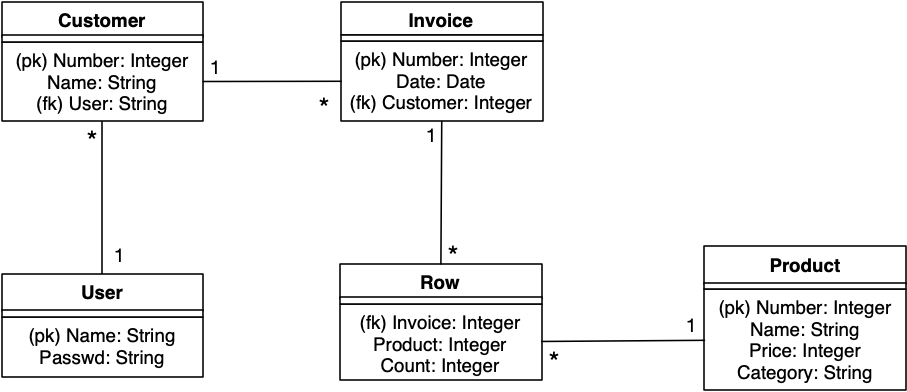
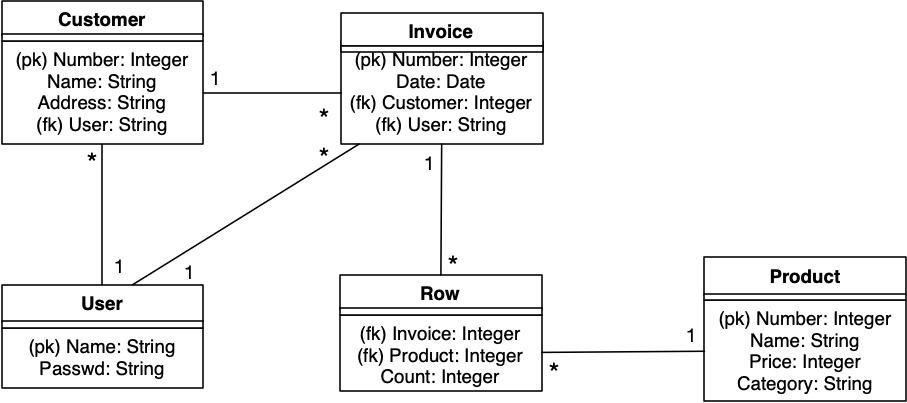
Documentation

diff --git a/README.md b/README.md
@@ -2,6 +2,12 @@
 
 <https://tsoha-laskutus.herokuapp.com/>
 
-Yksinkertainen laskutussovellus kappaletavarakauppaan. Sovelluksessa on tuoterekisteri ja asiakasrekisteri. Lasku on yhdelle asiakkalle, mutta siinä voi olla useampi rivi. Raporteissa voi hyödyntää asiakasryhmiä ja tuoteryhmiä. Myyjän nimi tallentuu laskulle suoraan käyttäjäkannasta. Kentät ovat vielä minimissä, niitä saatetaan tarvita lisää.
+Yksinkertainen laskutussovellus kappaletavarakauppaan. Sovelluksessa on tuoterekisteri, asiakasrekisteri ja tietysti laskurekisteri. Lasku on aina yhdelle asiakkalle, mutta siinä voi olla useampi rivi. Rivit ovat omassa taulussaan.
+
+Tuoterekisterissä on tuoteryhmä-kenttä yhteenvetoraportointia varten.
+
+Jokaisella käyttäjällä on omat asiakkaat eivätkä käyttäjät näe toistensa asiakkaita.
+
+Käyttäjät voivat katsoa, lisätä, poistaa ja muokata tuotteita, omia laskujaan ja omia asiakkaitaan.
 
 ![ER-kaavio](https://github.com/riihikallio/tsoha/blob/master/documentation/erd.png)
